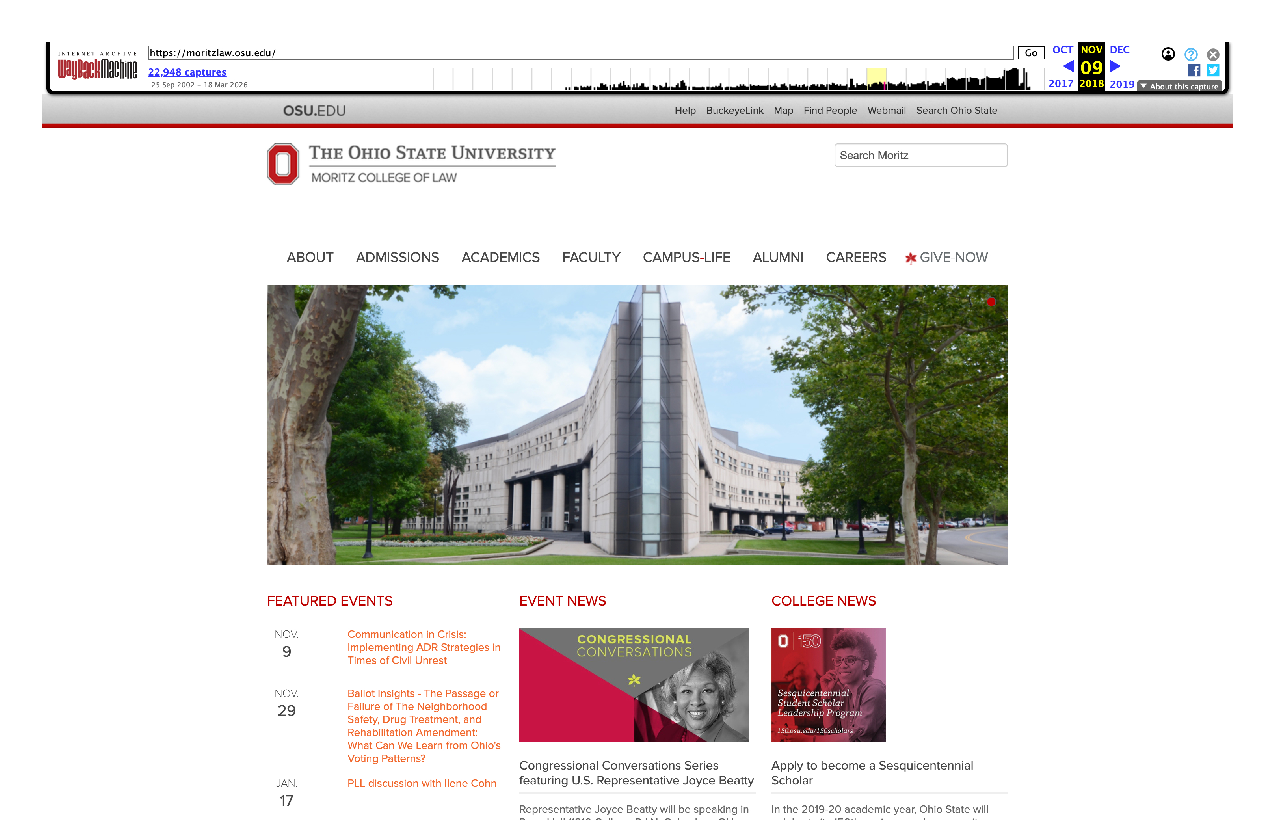
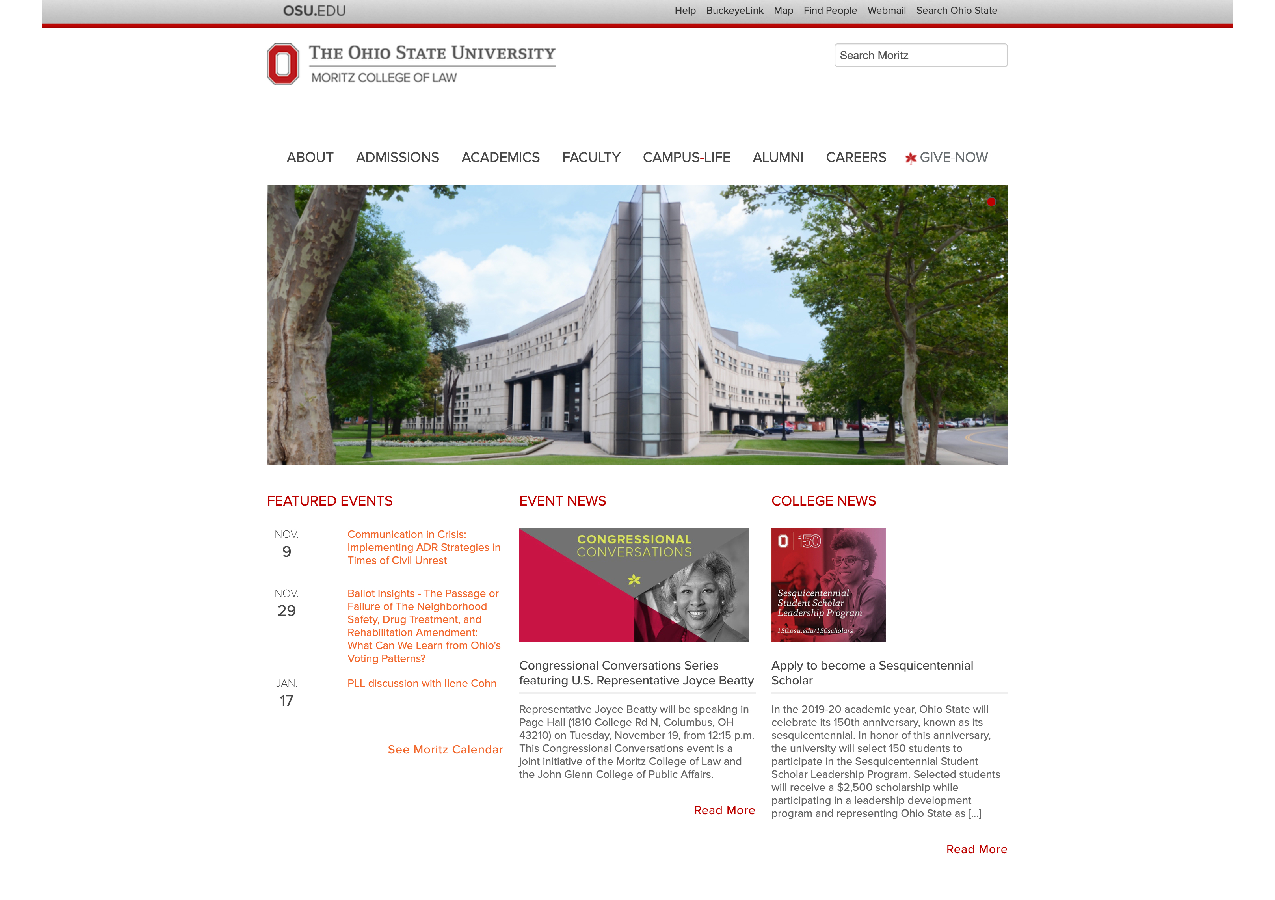
Add BayWa/LMU case study, fix OSU screenshots, update EV project context
- Add BayWa Mobility Solutions project card to index.html projects section
- Merge BayWa/LMU consulting context into EV analytics case study (work.html)
- Replace GreenGrid sample label with real BayWa client context
- Add baywa-ev-hub.jpg, baywa-project-scope.png, baywa-completed-projects.png
- Re-crop OSU before/after screenshots to remove Wayback Machine toolbar
- Rename case study anchor from meridian-report to ev-report

diff --git a/work.html b/work.html
@@ -239,15 +239,15 @@
     </article>
 
     <!-- CASE STUDY 3 -->
-    <article class="case-study" id="meridian-report">
+    <article class="case-study" id="ev-report">
 
       <header class="case-header">
         <div class="case-meta">
           <span class="case-tag">Analytics · Data Modelling · Excel</span>
-          <span class="case-year">2023</span>
+          <span class="case-year">2024 – 2025</span>
         </div>
         <h1>EV Charging Network — Operational Intelligence Report</h1>
-        <p class="case-org">GreenGrid EV Solutions (Sample Project)</p>
+        <p class="case-org">BayWa Mobility Solutions × LMU Munich</p>
         <div class="case-role-strip">
           <div class="role-item">
             <span class="role-label">Role</span>
@@ -267,8 +267,8 @@
       <section class="case-section">
         <div class="section-label">Context</div>
         <div class="section-body">
-          <p>EV charging network operators often have raw session data but no structured framework to turn it into operational decisions. Without visibility into utilisation rates, grid load timing, and the cost impact of time-of-use electricity pricing, it is difficult to optimise asset deployment, justify infrastructure investment, or identify underperforming stations.</p>
-          <p>This sample project simulates a full-year operational review for a mid-size EV charging network across three station types — <strong>Level 2</strong>, <strong>DC Fast Chargers (DCFC)</strong>, and <strong>Level 1</strong> — applying the same analytical framework used in communications reporting to a green-tech operational context.</p>
+          <p>This analytical framework was developed as part of a student consulting engagement with <strong>BayWa Mobility Solutions</strong>, Germany's leading DC fast-charging infrastructure provider — 500+ locations, €113M revenue, and responsible for 35% of all EnBW DC charging points installed nationwide. Understanding operational performance at the station level was central to building credible, data-backed strategic recommendations for the client.</p>
+          <p>EV charging operators often have raw session data but no structured framework to turn it into decisions. Without visibility into utilisation rates, grid load timing, and the cost impact of time-of-use electricity pricing, it is difficult to optimise asset deployment or identify underperforming stations. The workbook below models a full-year operational review across three station types — <strong>Level 2</strong>, <strong>DC Fast Chargers (DCFC)</strong>, and <strong>Level 1</strong>.</p>
         </div>
       </section>
 
@@ -282,6 +282,12 @@
       <section class="case-section">
         <div class="section-label">What Was Built</div>
         <div class="section-body full-width">
+
+          <div class="deliverable">
+            <div class="deliverable-screens">
+              <img src="assets/images/work/baywa-ev-hub.jpg" alt="BayWa EV charging hub" class="screen single" />
+            </div>
+          </div>
 
           <div class="deliverable">
             <div class="deliverable-info">

diff --git a/index.html b/index.html
@@ -237,6 +237,21 @@
           <a href="work.html#nationwide-intranet" class="case-study-link">View case study →</a>
         </div>
 
+        <div class="project-card">
+          <div class="project-tag">UX Research · Strategy</div>
+          <h3>BayWa Mobility Solutions — EV Charging CX Strategy</h3>
+          <p><strong>Problem:</strong> BayWa Mobility Solutions, Germany's leading DC fast-charging installer (500+ locations, €113M revenue), needed to understand what was limiting repeat hub usage and how to improve the end-to-end customer experience.<br><br>
+          <strong>Action:</strong> Led competitive analysis, customer journey mapping, and SWOT analysis as part of an LMU student consulting team — using a double-diamond mixed-methods approach combining desk research, interviews, and survey data.<br><br>
+          <strong>Result:</strong> Delivered a strategic blueprint identifying digital friction and hub amenity gaps as the primary suppression factors, with prioritised recommendations across app UX, physical set-up, and loyalty. Presented to BMS stakeholders February 2025.</p>
+          <div class="project-skills">
+            <span>UX Research</span>
+            <span>Competitive Analysis</span>
+            <span>Customer Journey Mapping</span>
+            <span>Strategy</span>
+          </div>
+          <a href="work.html#ev-report" class="case-study-link">View case study →</a>
+        </div>
+
       </div>
     </div>
   </section>
